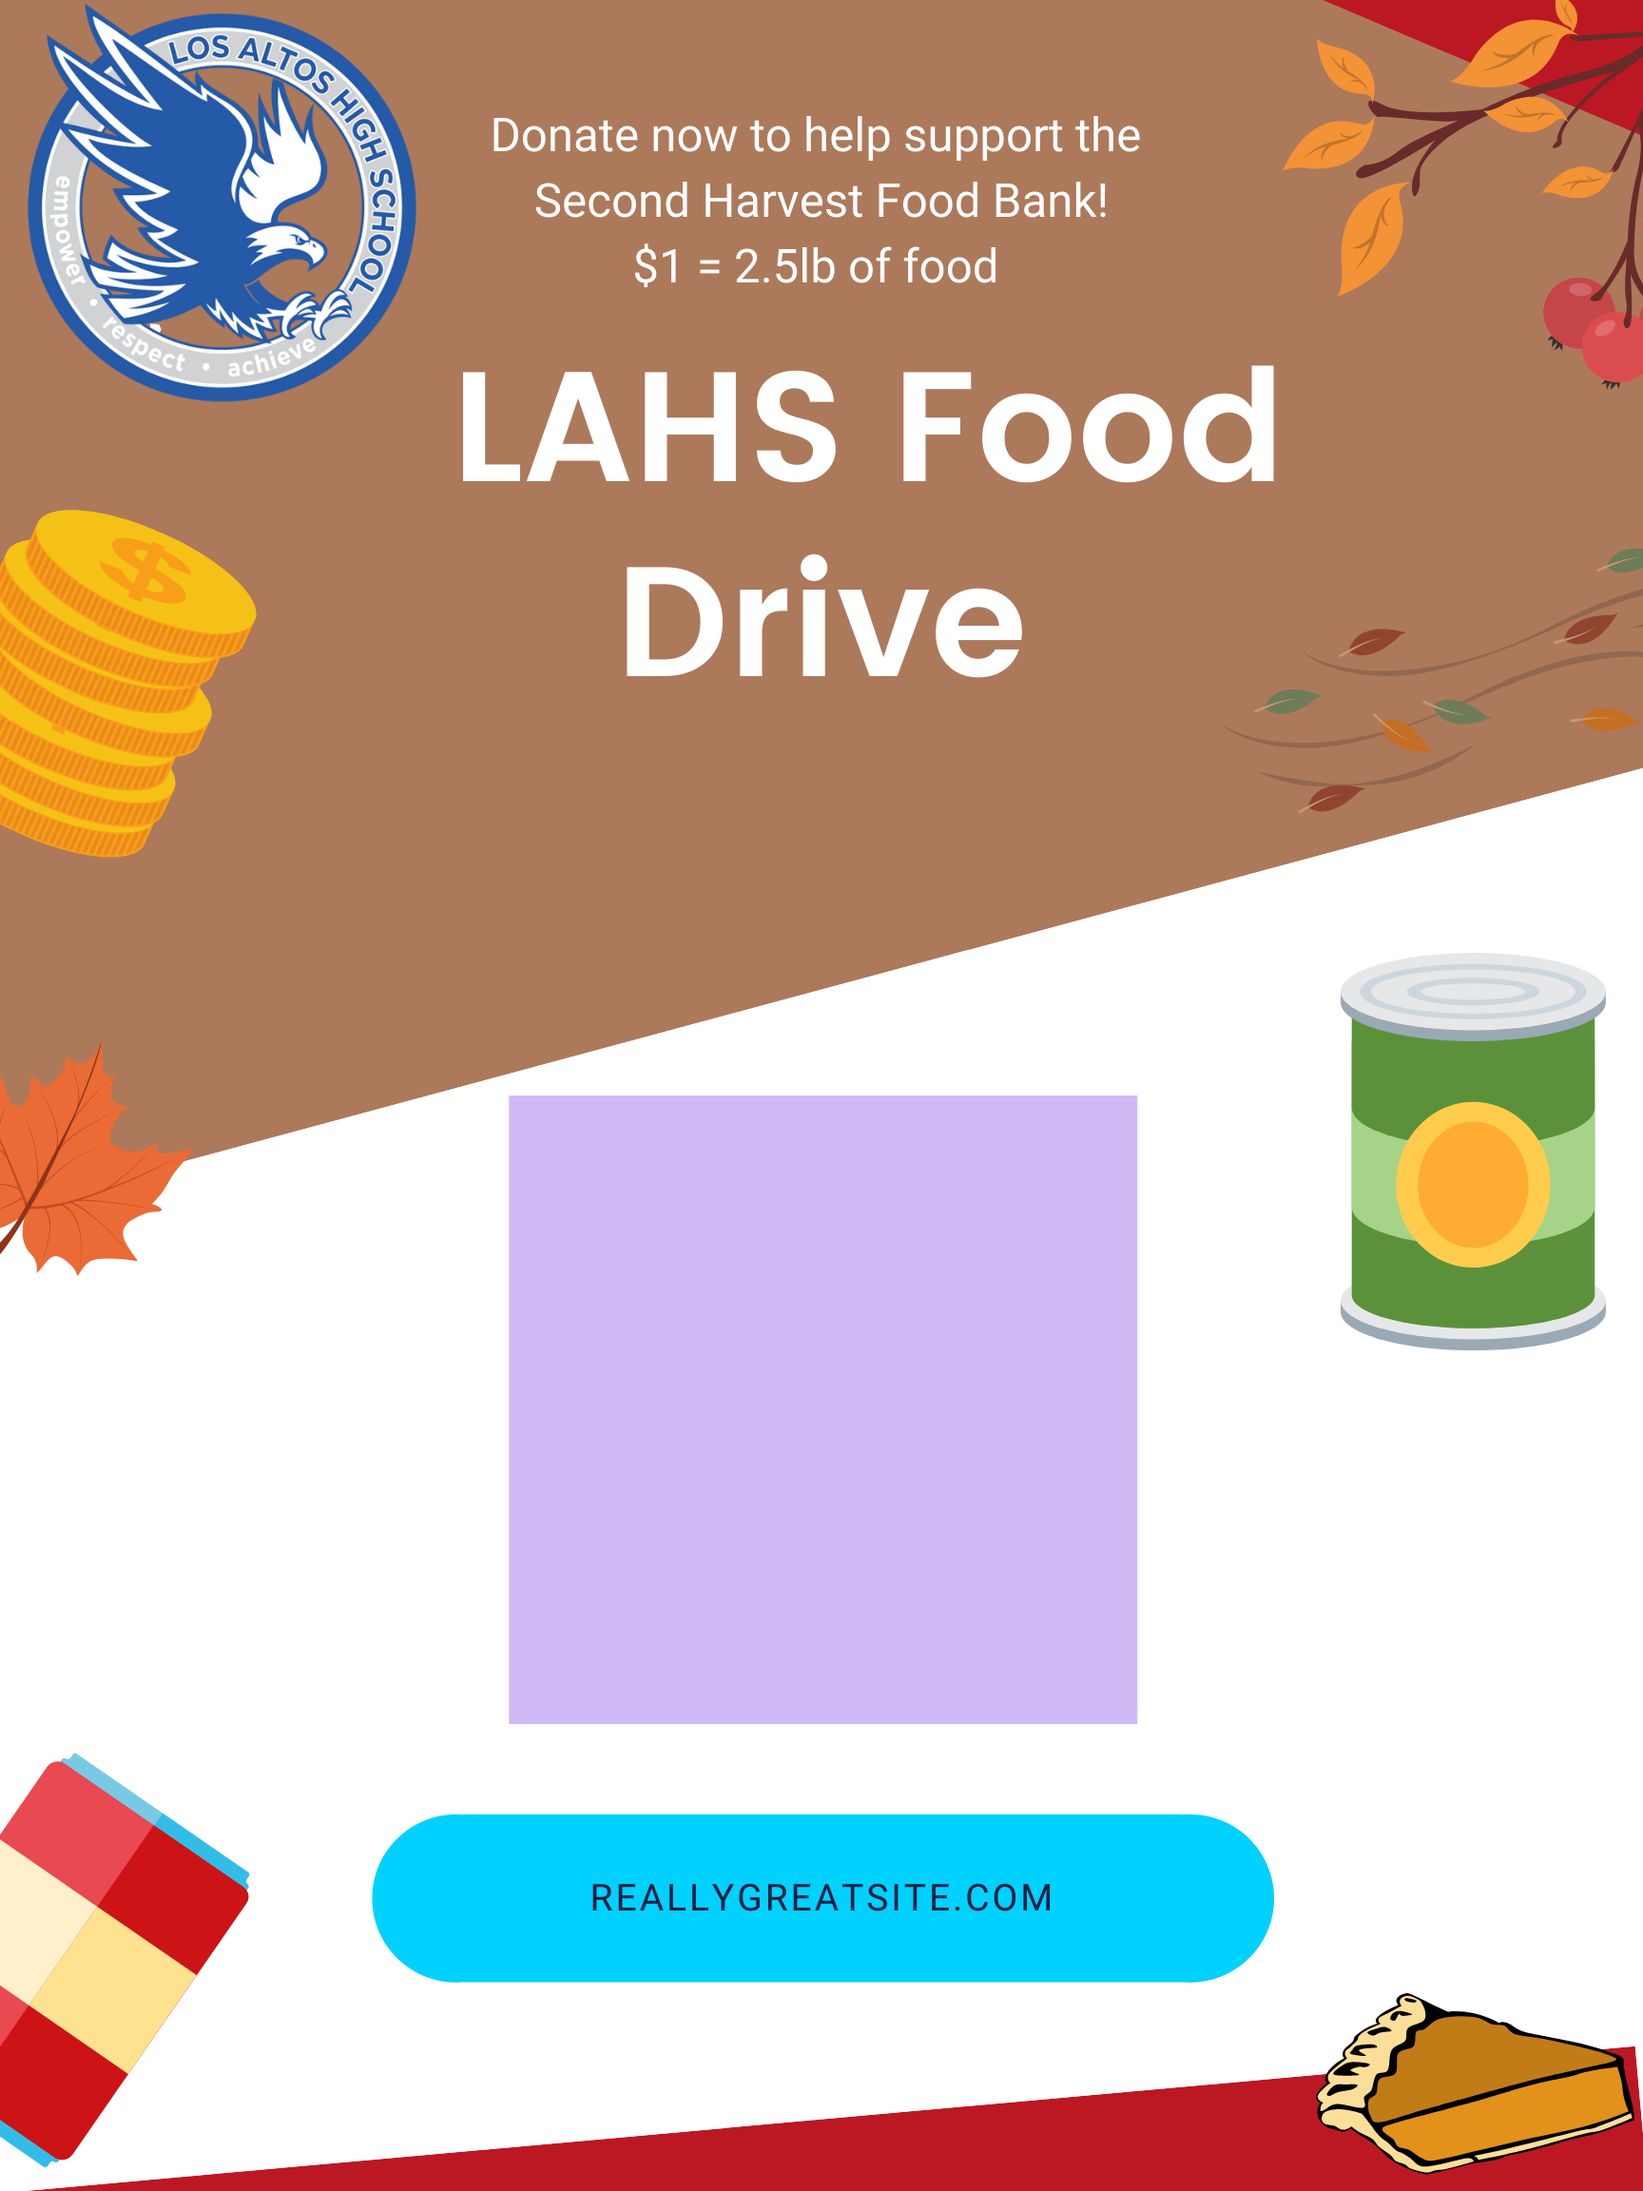
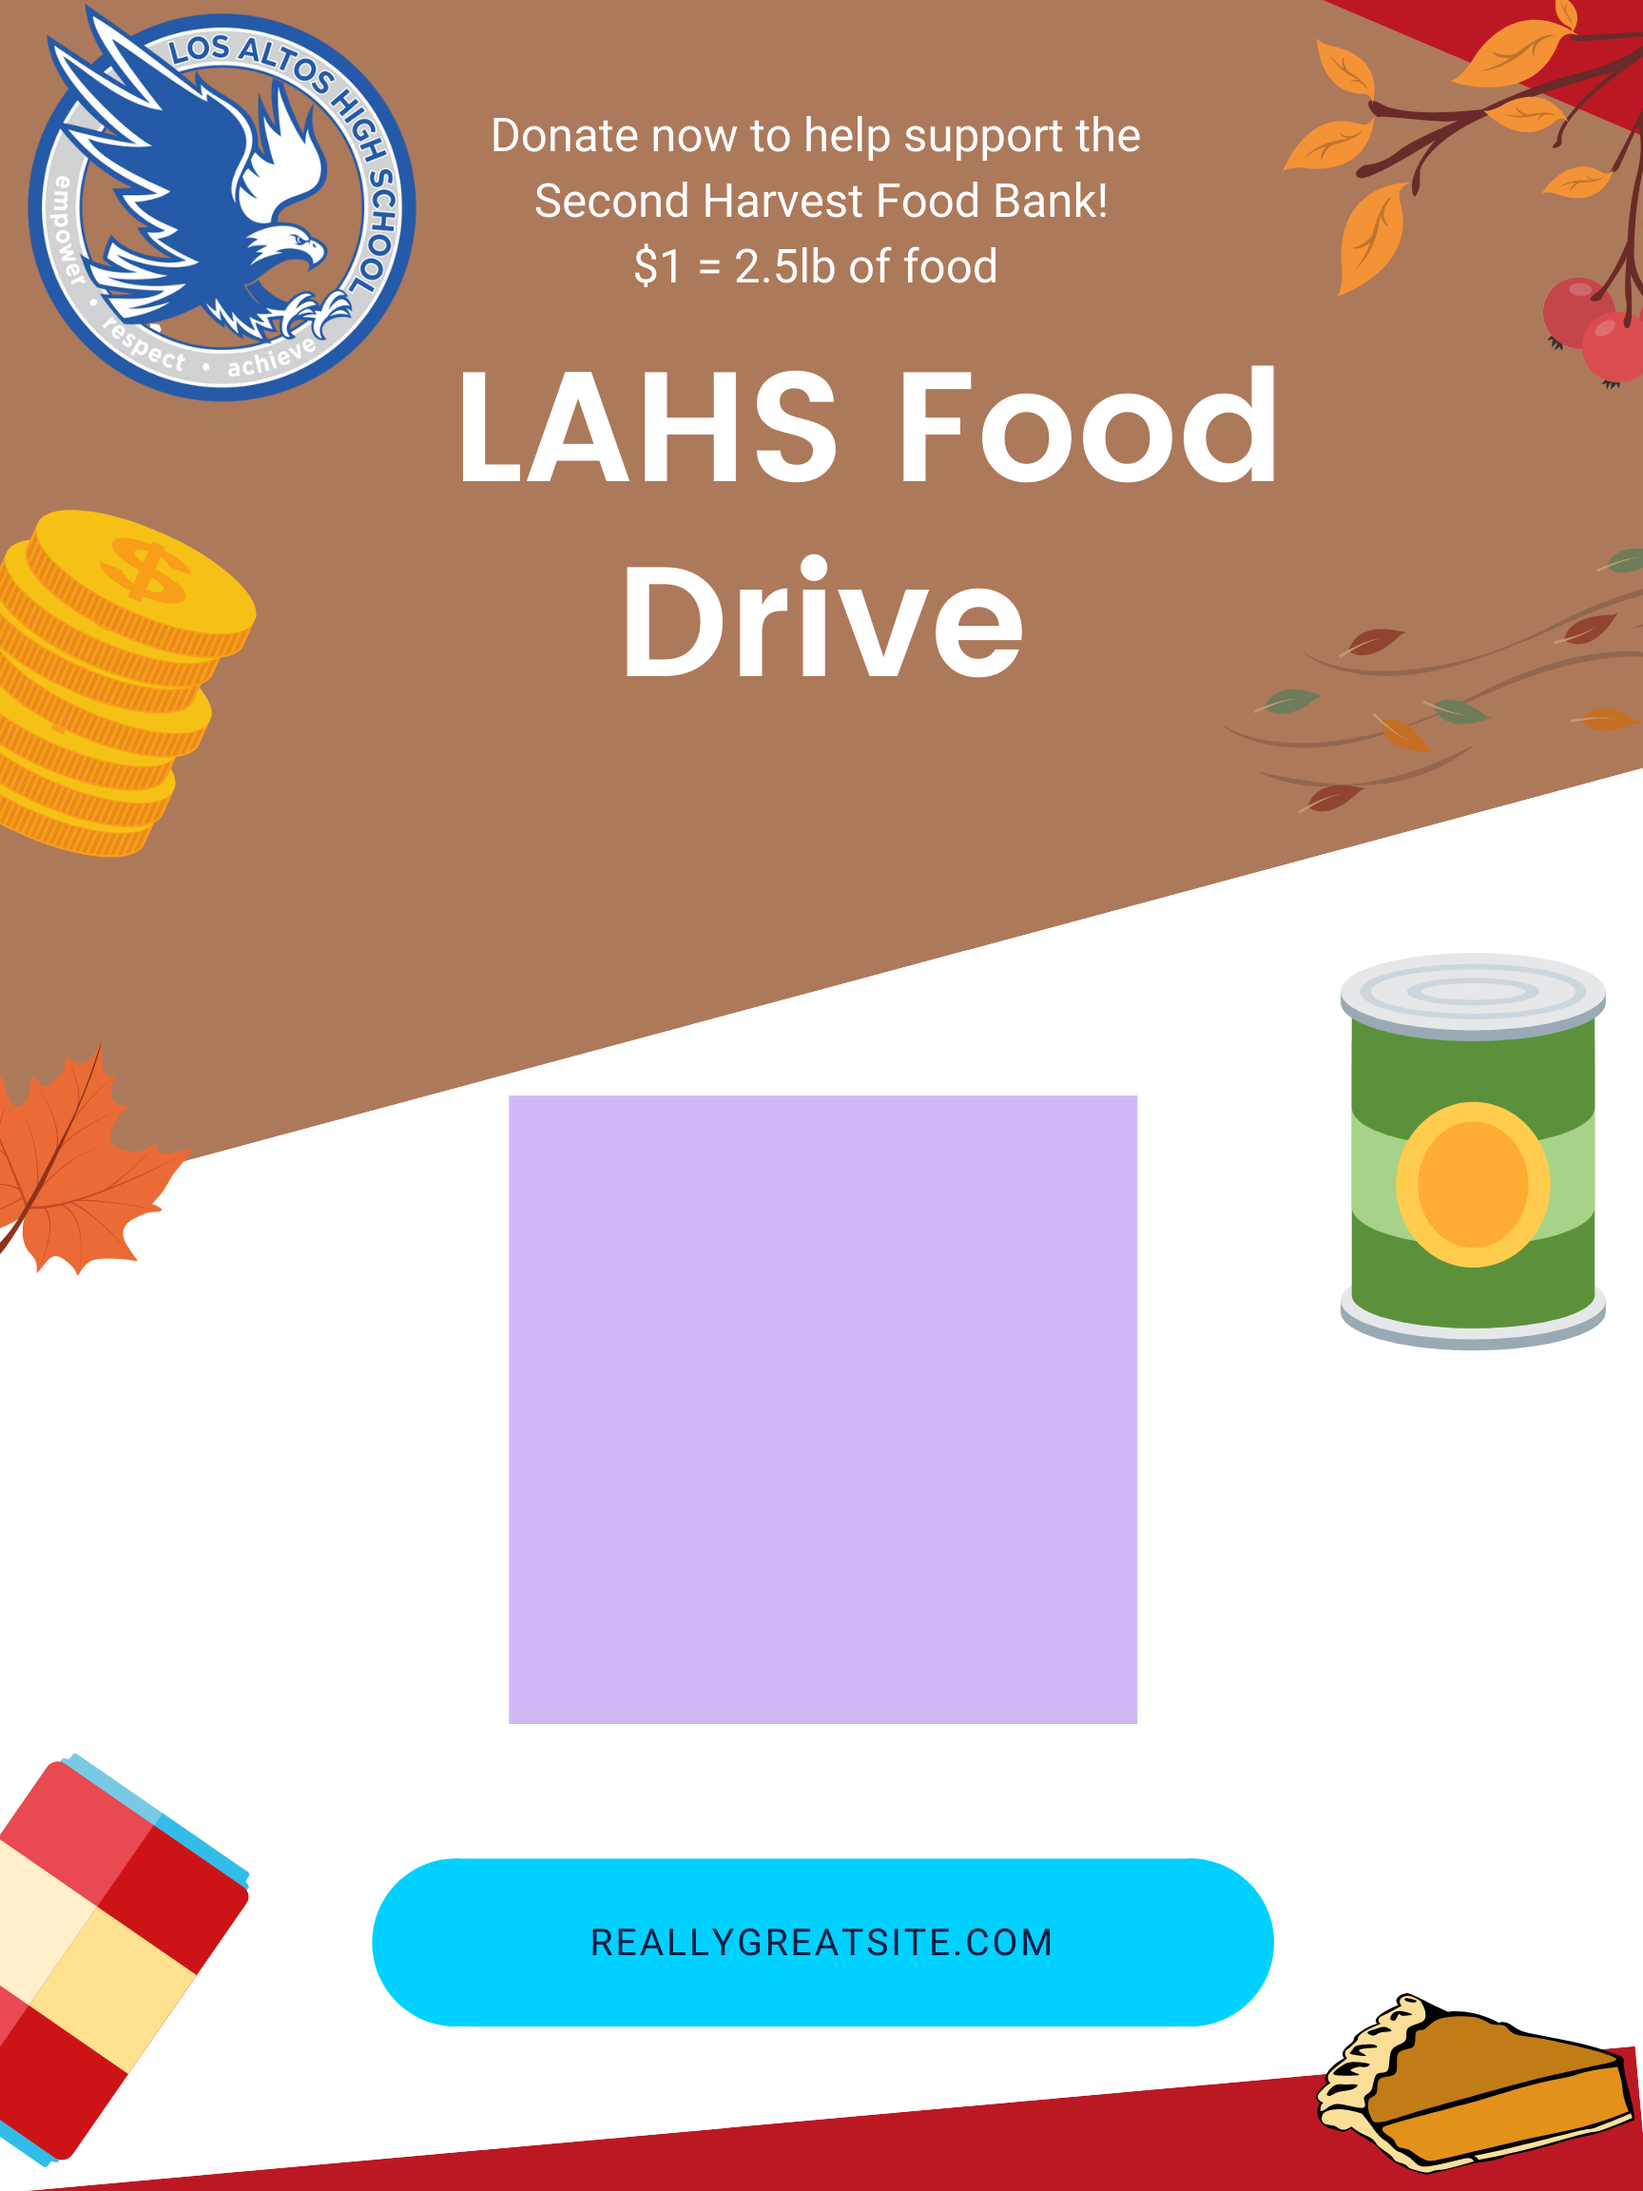
worked on preprocessing the sub_header title to make sure it accounts for non-integer room names

Changed region(s): [[0.2188, 0.8125, 0.7812, 0.9375]]

diff --git a/GraphicDesigner.py b/GraphicDesigner.py
@@ -17,12 +17,12 @@ qr = qrcode.QRCode(
     border=4,
 )
 
-def make_flyer(teacher_name, room_number, donation_link):
+def make_flyer(teacher_name, room_name, donation_link):
     """
     creates flyer from template
 
     @param teacher_name: name of teacher
-    @param room_number: room number of teacher
+    @param room_number: room name of teacher
     @param donation_link: link to donation link
 
     @return img object of flyer
@@ -32,9 +32,8 @@ def make_flyer(teacher_name, room_number, donation_link):
     W, H = flyer_img.size
 
     flyer_editor = ImageDraw.Draw(flyer_img)
-
     
-    sub_header = teacher_name + " - " + room_number
+    sub_header = sub_header_str(teacher_name, room_name)
     sub_height_adj = 610 # trial and error
     # trying to get sub-header aligned with image
     w_sub, h_sub = flyer_editor.textsize(sub_header, font=Fonts["sub-header"])
@@ -43,17 +42,27 @@ def make_flyer(teacher_name, room_number, donation_link):
 
     # QR code placement on the image 
     qr_img = qr_code_generator(donation_link)
-    flyer_img.paste(qr_img, (515, 1135)) # found through trial and error
+    flyer_img.paste(qr_img, (515, 1150)) # found through trial and error
 
     # putting link in the bottom blue area
-    don_height_adj = 1680
+    don_height_adj = 1775
     w_don, h_don = flyer_editor.textsize(donation_link, font=Fonts["link"])
     flyer_editor.text(((W-w_don)/2, (H-h_don+don_height_adj)/2), \
         donation_link, font=Fonts["link"], fill=(0,0,0))
 
     flyer_img.save("gggggg.png", "PNG")
     
-
+def sub_header_str(teacher_name, room_name): 
+    sub_header = teacher_name + " - "
+    
+    # in case the room name is not a number like library
+    try: 
+        int(room_name)
+        sub_header += "Room " + room_name
+    except ValueError:
+        sub_header += room_name
+    
+    return sub_header
 
 def qr_code_generator(donation_link):
     """
@@ -73,5 +82,5 @@ def qr_code_generator(donation_link):
 
 #main for debugging and testing
 if __name__ == "__main__":
-    make_flyer("Kai StoutKai StoutKai Stout", "Room L", "https://impact.shfb.org/teampham-valentukoni",)
+    make_flyer("Ms Woolfolk", "library", "https://impact.shfb.org/teampham-valentukoni",)
     
